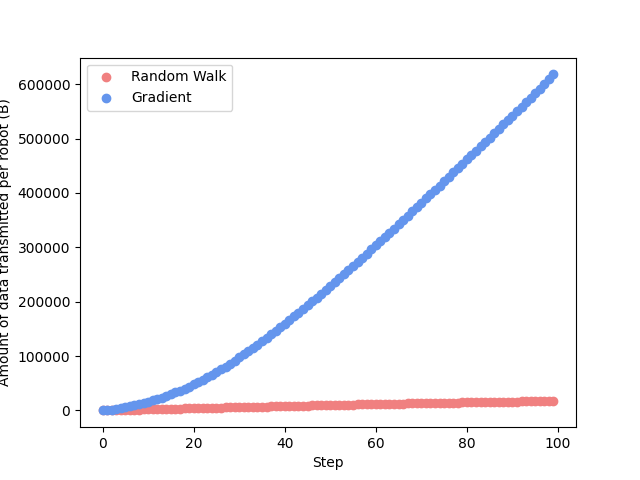
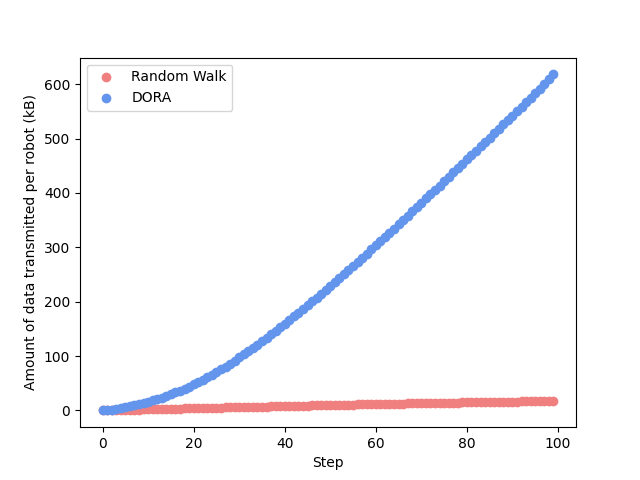
Update figure captions and scale

Changed region(s): [[0.0, 0.1562, 0.125, 0.8125], [0.1875, 0.1875, 0.3125, 0.2188]]

diff --git a/sim/benchmarking/compute_metrics.py b/sim/benchmarking/compute_metrics.py
@@ -155,7 +155,7 @@ for f in range(0, number_of_folders):
     ax.scatter(x_axis, number_of_cases_explored[f, :, :].mean(0), c=colors[f])
 ax.set_xlabel("Step")
 ax.set_ylabel("Number of cells explored")
-ax.legend(['Random Walk', 'Gradient'])
+ax.legend(['Random Walk', 'DORA'])
 plt.savefig(figures_folder + "explored.png")
 
 fig = plt.figure()
@@ -164,7 +164,7 @@ for f in range(0, number_of_folders):
     ax.scatter(x_axis, scaled_amount_of_radiation[f, :, :].mean(0), c=colors[f])
 ax.set_xlabel("Step")
 ax.set_ylabel("Amount of radiation per robot")
-ax.legend(['Random Walk', 'Gradient'])
+ax.legend(['Random Walk', 'DORA'])
 plt.savefig(figures_folder + "radiation.png")
 
 fig = plt.figure()
@@ -173,14 +173,14 @@ for f in range(0, number_of_folders):
     ax.scatter(x_axis, average_belief_error[f, :, :].mean(0), c=colors[f])
 ax.set_xlabel("Step")
 ax.set_ylabel("Average Belief Error")
-ax.legend(['Random Walk', 'Gradient'])
+ax.legend(['Random Walk', 'DORA'])
 plt.savefig(figures_folder + "error.png")
 
 fig = plt.figure()
 ax = fig.gca()
 for f in range(0, number_of_folders):
-    ax.scatter(x_axis, amount_transmitted[f, :, :].mean(0), c=colors[f])
+    ax.scatter(x_axis, amount_transmitted[f, :, :].mean(0)/1000.0, c=colors[f])
 ax.set_xlabel("Step")
-ax.set_ylabel("Amount of data transmitted per robot (B)")
-ax.legend(['Random Walk', 'Gradient'])
+ax.set_ylabel("Amount of data transmitted per robot (kB)")
+ax.legend(['Random Walk', 'DORA'])
 plt.savefig(figures_folder + "transmitted.png")
